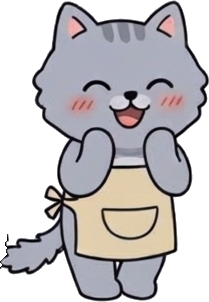
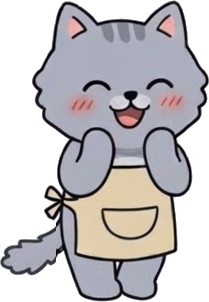
홈 화면 피드백 반영: 휴대폰 메뉴 한 줄 스크롤, 글 카드 작은 썸네일, 제목·검색창·버튼 문구, 일정 목록 끝 표시, 히어로 강아지 dog-yay·고양이 꼬리 고침, 강아지 털색 통일

Changed region(s): [[0.0, 0.745, 0.2871, 0.9238]]

diff --git a/_layouts/home.html b/_layouts/home.html
@@ -9,12 +9,12 @@ layout: default
 <div class="home">
   <div class="nh-hero">
     <div class="nh-hero-text">
-      <h1 class="nh-hero-title">혼자 하는 사장님도<br><b>홈택스 화면 그대로</b> 따라 해요</h1>
+      <h1 class="nh-hero-title">혼자 하는 사장님도<br><b>홈택스 화면 그대로</b> <span class="nw">따라 해요</span></h1>
       <p class="nh-hero-sub">실제 홈택스 화면에 순서를 표시해 정리했어요. 어려운 말은 풀어서, 숫자는 법 조문으로 확인해서요.<br><small>세무사가 아닌 개인이 국세청 자료를 바탕으로 정리한 정보예요</small></p>
     </div>
     <div class="nh-hero-chars" aria-hidden="true">
       <img src="{{ "/assets/toon/cat-happy.png" | relative_url }}" alt="" class="c1">
-      <img src="{{ "/assets/toon/dog-point-left.png" | relative_url }}" alt="" class="c2">
+      <img src="{{ "/assets/toon/dog-yay.png" | relative_url }}" alt="" class="c2">
     </div>
   </div>
   {%- include tax-calendar.html -%}
@@ -25,7 +25,7 @@ layout: default
     </button>
     <button type="button" class="nh-q" id="cert" data-topics="민원증명|사업자 기본" data-label="민원증명 발급">
       <svg viewBox="0 0 48 48" aria-hidden="true"><path d="M6 8h36v6H6z"/><path d="M10 14v24h20"/><path d="M38 14v14"/><path class="g" d="M15 21h18M15 27h14"/><circle class="g" cx="35" cy="35" r="5"/><path class="g" d="M32 39l-2 7 5-3 5 3-2-7"/></svg>
-      <span>민원증명 발급</span>
+      <span>민원증명</span>
     </button>
     <button type="button" class="nh-q" id="vat" data-topics="부가세|세무 일정" data-label="부가가치세">
       <svg viewBox="0 0 48 48" aria-hidden="true"><path d="M5 34h38v9H5z"/><path d="M20 39h8"/><path d="M9 34l3-12h24l3 12"/><path d="M27 22v-7h12v7"/><path class="g" d="M11 22V6h11v16"/><path class="g" d="M14 15l5-6M14 9h0M19 15h0"/><path d="M17 27h2M23 27h2M29 27h2"/></svg>
@@ -44,7 +44,7 @@ layout: default
 
   <div class="nh-search" role="search">
     <svg viewBox="0 0 24 24" aria-hidden="true"><circle cx="11" cy="11" r="7"/><path d="M16.5 16.5L21 21"/></svg>
-    <input type="search" id="nh-search" placeholder="궁금한 신고나 서류를 검색해 보세요 (예: 납세증명서)" aria-label="글 검색" autocomplete="off">
+    <input type="search" id="nh-search" placeholder="신고·서류 검색" aria-label="글 검색" autocomplete="off">
   </div>
 
   <div class="nh-list-head">
@@ -52,18 +52,21 @@ layout: default
     <button type="button" class="nh-reset" hidden>전체 보기</button>
   </div>
   {%- comment -%} 4컷만화(assets/insta/슬러그/1.png)가 있으면 카드 그림으로 쓴다(시안 A) {%- endcomment -%}
-  {%- capture toon_files -%}{%- for f in site.static_files -%}{%- if f.path contains "/assets/insta/" and f.name == "1.png" -%}{{ f.path }}|{%- endif -%}{%- endfor -%}{%- endcapture -%}
+  {%- capture toon_files -%}{%- for f in site.static_files -%}{%- if f.path contains "/assets/insta/" and f.name == "thumb.jpg" or f.path contains "/assets/insta/" and f.name == "1.png" -%}{{ f.path }}|{%- endif -%}{%- endfor -%}{%- endcapture -%}
   <ul class="post-cards">
     {%- for post in site.posts %}
     {%- assign toon = "/assets/insta/" | append: post.slug | append: "/1.png" %}
+    {%- assign thumb = "/assets/insta/" | append: post.slug | append: "/thumb.jpg" %}
     {%- assign parts = post.title | split: ": " %}
     {%- assign main_title = parts | first %}
     {%- assign sub_title = post.title | remove_first: main_title | remove_first: ": " %}
     <li class="post-card" data-topic="{{ post.topic | default: '기타' }}" data-search="{{ post.title | append: ' ' | append: post.topic | append: ' ' | append: post.content | strip_html | strip_newlines | truncate: 2000 | escape }}">
       <a class="post-card-link" href="{{ post.url | relative_url }}">
-        {%- assign toon_key = toon | append: "|" %}
-        {%- if toon_files contains toon_key %}
-        <div class="post-card-toon"><img src="{{ toon | relative_url }}" alt="" loading="lazy" width="1080" height="1350"></div>
+        {%- assign toon_key = toon | append: "|" %}{%- assign thumb_key = thumb | append: "|" %}
+        {%- if toon_files contains thumb_key %}
+        <div class="post-card-toon"><img src="{{ thumb | relative_url }}" alt="{{ main_title | escape }} 네컷만화" loading="lazy" width="600" height="389"></div>
+        {%- elsif toon_files contains toon_key %}
+        <div class="post-card-toon"><img src="{{ toon | relative_url }}" alt="{{ main_title | escape }} 네컷만화" loading="lazy" width="1080" height="1350"></div>
         {%- elsif post.image %}
         <img class="post-card-thumb" src="{{ post.image | relative_url }}" alt="" loading="lazy" width="1200" height="630">
         {%- endif %}

diff --git a/_tools/toon-dogtone.html b/_tools/toon-dogtone.html
@@ -1,0 +1,36 @@
+<!doctype html>
+<!--
+  강아지 그림(assets/toon/dog-*.png) 털색을 기준 그림 dog-point-left2의 털색으로 맞춘다(2026-11-08 사용자: "모든 강아지 피부톤은 dog-point-left2로 통일").
+  털 픽셀 = 주황갈색(색상 15~40°, 채도 0.2 이상, 밝기 90 이상). 넥타이(파랑)·입(빨강)·볼(분홍)·흰자·테두리는 건드리지 않는다.
+  그림마다 털 픽셀의 채널별 중앙값을 기준 그림 중앙값에 맞추는 배율을 곱한다(귀 같은 진한 털도 같은 배율로 함께 바뀜).
+  크롬 headless --dump-dom 으로 열면 <pre id="out">에 "이름 배율 base64PNG" 줄이 나온다. ?names=a,b 로 일부만.
+-->
+<meta charset="utf-8">
+<pre id="out"></pre>
+<script>
+const ALL = ["dog-cashier","dog-checklist","dog-cheer","dog-cry","dog-dizzy","dog-giggle","dog-grin","dog-happy","dog-laptop","dog-lecture","dog-mic","dog-panic","dog-phone","dog-point-left","dog-point-right","dog-reach","dog-rich","dog-rub","dog-scared","dog-scheme","dog-slam","dog-sly","dog-sob","dog-stamp","dog-sulk","dog-talk","dog-think","dog-tired","dog-tongue","dog-wonder","dog-yawn","dog-yay"];
+const q = new URLSearchParams(location.search).get("names");
+const NAMES = q ? q.split(",") : ALL, REF = "dog-point-left2";
+const out = document.getElementById("out");
+const load = n => new Promise(r => { const i = new Image(); i.onload = () => r(i); i.onerror = () => r(null); i.src = "../assets/toon/" + n + ".png"; });
+const fur = (r, g, b, a) => { if (a < 128) return false; const mx = Math.max(r, g, b), mn = Math.min(r, g, b);
+  if (mx < 90 || mx !== r || mx === mn || (mx - mn) / mx < 0.2) return false; const h = 60 * (g - b) / (mx - mn); return h >= 15 && h <= 40; };
+const med = a => { a.sort((x, y) => x - y); return a[a.length >> 1]; };
+function stats(p) { const R = [], G = [], B = []; for (let k = 0; k < p.length; k += 4) if (fur(p[k], p[k+1], p[k+2], p[k+3])) { R.push(p[k]); G.push(p[k+1]); B.push(p[k+2]); } return [med(R), med(G), med(B), R.length]; }
+function data(img) { const c = document.createElement("canvas"); c.width = img.naturalWidth; c.height = img.naturalHeight; const g = c.getContext("2d"); g.drawImage(img, 0, 0); return [c, g, g.getImageData(0, 0, c.width, c.height)]; }
+(async () => {
+  const [, , rd] = data(await load(REF)); const ref = stats(rd.data);
+  out.textContent += `REF ${ref.slice(0, 3).join(",")}\n`;
+  for (const name of NAMES) {
+    const im = await load(name); if (!im) { out.textContent += `${name} missing
+`; continue; }
+    const [c, g, d] = data(im), p = d.data, s = stats(p);
+    const k3 = [0, 1, 2].map(i => ref[i] / s[i]);
+    if (k3.every(k => Math.abs(k - 1) < 0.025)) { out.textContent += `${name} skip ${s.slice(0, 3).join(",")}\n`; continue; }
+    for (let k = 0; k < p.length; k += 4) if (fur(p[k], p[k+1], p[k+2], p[k+3])) for (let i = 0; i < 3; i++) p[k+i] = Math.min(255, Math.round(p[k+i] * k3[i]));
+    g.putImageData(d, 0, 0);
+    out.textContent += `${name} ${k3.map(k => k.toFixed(3)).join(",")} ${c.toDataURL("image/png").split(",")[1]}\n`;
+  }
+  out.textContent += "DONE\n";
+})();
+</script>

diff --git a/assets/main.scss b/assets/main.scss
@@ -183,14 +183,16 @@ body {
     & + a { border-left: 1px solid rgba(255, 255, 255, 0.35); }
   }
   @media (max-width: 600px) {
-    // 메뉴 7개: 휴대폰에서는 4칸·3칸 2줄 (한 줄이면 390px에서 넘침)
+    // 메뉴 7개: 휴대폰에서는 한 줄 가로 스크롤(2줄로 접히면 "홈"만 혼자 남아 어색했음, 2026-11-08)
     width: 100%;
-    display: grid;
-    grid-template-columns: repeat(4, 1fr);
-    row-gap: 6px;
-    font-size: 13px;
-    a { padding: 2px 0; text-align: center; white-space: nowrap; }
-    a:nth-child(4n + 1) { border-left: 0; }
+    flex-wrap: nowrap;
+    overflow-x: auto;
+    -webkit-overflow-scrolling: touch;
+    scrollbar-width: none;
+    &::-webkit-scrollbar { display: none; }
+    font-size: 14px;
+    a { flex: none; padding: 4px 12px; white-space: nowrap; }
+    a:first-child { padding-left: 0; }
   }
 }
 
@@ -352,7 +354,9 @@ body {
 .nh-cal-d.on .nh-cal-n { background: #fff; }
 .nh-cal-body { display: grid; grid-template-columns: 1fr; gap: 12px;
   @media (min-width: 700px) { grid-template-columns: minmax(0, 330px) minmax(0, 1fr); gap: 20px; } }
-.nh-cal-list { list-style: none; margin: 0; padding: 0 4px 0 0; max-height: 210px; overflow-y: auto;
+.nh-cal-list { list-style: none; margin: 0; padding: 0 4px 22px 0; max-height: 230px; overflow-y: auto;
+  // 아래가 더 있다는 표시: 끝이 흐려짐(맨 아래까지 내리면 padding 덕에 마지막 줄은 다 보임)
+  -webkit-mask-image: linear-gradient(to bottom, #000 82%, transparent); mask-image: linear-gradient(to bottom, #000 82%, transparent);
   @media (min-width: 700px) { max-height: 300px; border-left: 1px solid #ece8f2; padding-left: 16px; } }
 .nh-cal-day { margin-top: 8px; &:first-child { margin-top: 0; } font-size: 14px; font-weight: 800; color: $brand-color; &.past { color: #999; } }
 .nh-cal-item { padding: 6px 0 6px 10px; border-left: 3px solid $gold; margin-top: 4px; font-size: 14px; line-height: 1.45;
@@ -451,8 +455,9 @@ body { background: $cream; }
 
 // 글 카드: 만화 그림 + 둥근 흰 카드
 .post-card-link { border-radius: 20px; border-color: #f0e8da; box-shadow: 0 4px 16px rgba(39, 19, 80, .06); }
-.post-card-toon { aspect-ratio: 16 / 10; overflow: hidden; background: $lav; border-bottom: 1px solid #f0e8da;
-  img { display: block; width: 100%; height: 100%; object-fit: cover; object-position: center 22%; } }
+.post-card-toon { aspect-ratio: 600 / 389; overflow: hidden; background: $lav; border-bottom: 1px solid #f0e8da;
+  img { display: block; width: 100%; height: 100%; object-fit: cover; object-position: center top; } }
+.nw { white-space: nowrap; }
 .post-card-topic { color: $accent; background: $lav; border-radius: 999px; padding: 2px 10px; }
 .post-card-dday { font-weight: 800; font-size: 12px; padding: 2px 9px; border-radius: 999px; color: #c0392b; background: #fdecea; }
 

diff --git a/_tools/toon-chars.js b/_tools/toon-chars.js
@@ -4,6 +4,7 @@
 //     꼬리 왼쪽 잘림 cat-happy·cat-wink·cat-dizzy·cat-moneybags(몸 왼쪽도), 꼬리 오른쪽 cat-sob, 몸 왼쪽 선 cat-mad, 오른쪽 가장자리 cat-faint·cat-panic·cat-shock,
 //     서류 왼쪽 끝 cat-guide("TAX" 첫 글자)·cat-contract, 귀 오른쪽 dog-surprise·dog-think, 귀 왼쪽 dog-panic·dog-smug
 //     (고침: cat-stamp 얼굴 오른쪽은 이모션9에서 다시 자름, 발 워터마크 8종·얼룩 3종 지움)
+//   쓰지 않음(2026-11-08 사용자): 콩알눈 cat-neutral·cat-talk. 사용자가 지움(11-08): cat-faint·cat-wink·dog-angry·dog-bored·dog-faint·dog-neutral·dog-smug·dog-surprise·dog-wave (옛 만화 칸에 dog-smug·dog-wave가 남아 있어 그 덱은 다시 찍지 않음). dog-talk은 흰자위 있는 사용자 제공 그림으로 바꿈. 강아지 털색은 모두 dog-point-left2 기준(_tools/toon-dogtone.html)
 //   공통(dog-·cat-): neutral 기본, talk 말하기, surprise 놀람, panic 당황, happy 기쁨, cry 울음,
 //                    angry 화남, tired 지침, cheer 만세, laptop 노트북 작업, phone 통화 당황, slam 책상 쾅, faint 기절(몸 뒤쪽이 잘림 → 칸 아래로 자르기), yay 만세2
 //   강아지만: think 궁금(전구?), smug 팔짱 으쓱, bored 턱 괴기(상반신)   고양이만: idea 떠오름(전구), shock 파랗게 질림, wink 윙크, mad 팔짱 화남

diff --git a/_tools/shot-mark.html b/_tools/shot-mark.html
@@ -15,6 +15,8 @@
   #w { position: relative; overflow: hidden; }
   #w img { position: absolute; left: 0; top: 0; }
   .box { position: absolute; border: 4px solid #e0322b; border-radius: 8px; box-sizing: border-box; }
+  .hide { position: absolute; background: #d9d6df; color: #6b6478; border-radius: 4px; text-align: center; overflow: hidden;
+          font: 800 15px 'Noto Sans KR', sans-serif; }
   .n { position: absolute; width: 34px; height: 34px; border-radius: 50%; background: #e0322b; color: #fff;
        font: 800 20px/34px 'Noto Sans KR', sans-serif; text-align: center; }
 </style></head><body><div id="w"></div>
@@ -39,6 +41,13 @@ img.onload = () => {
       Object.assign(n.style, { left: x - cx + bw - 20 + 'px', top: Math.max(0, y - cy - 16) + 'px' });
       w.appendChild(n);
     }
+  });
+  // hide: [[x,y,w,h,"글자"],...] 개인정보 칸을 회색 상자로 덮음(글자 생략 시 "가림")
+  (cfg.hide || []).forEach(([x, y, bw, bh, label]) => {
+    const h = document.createElement('div');
+    h.className = 'hide'; h.textContent = label || '가림';
+    Object.assign(h.style, { left: x - cx + 'px', top: y - cy + 'px', width: bw + 'px', height: bh + 'px', lineHeight: bh + 'px' });
+    w.appendChild(h);
   });
 };
 img.src = cfg.img;
